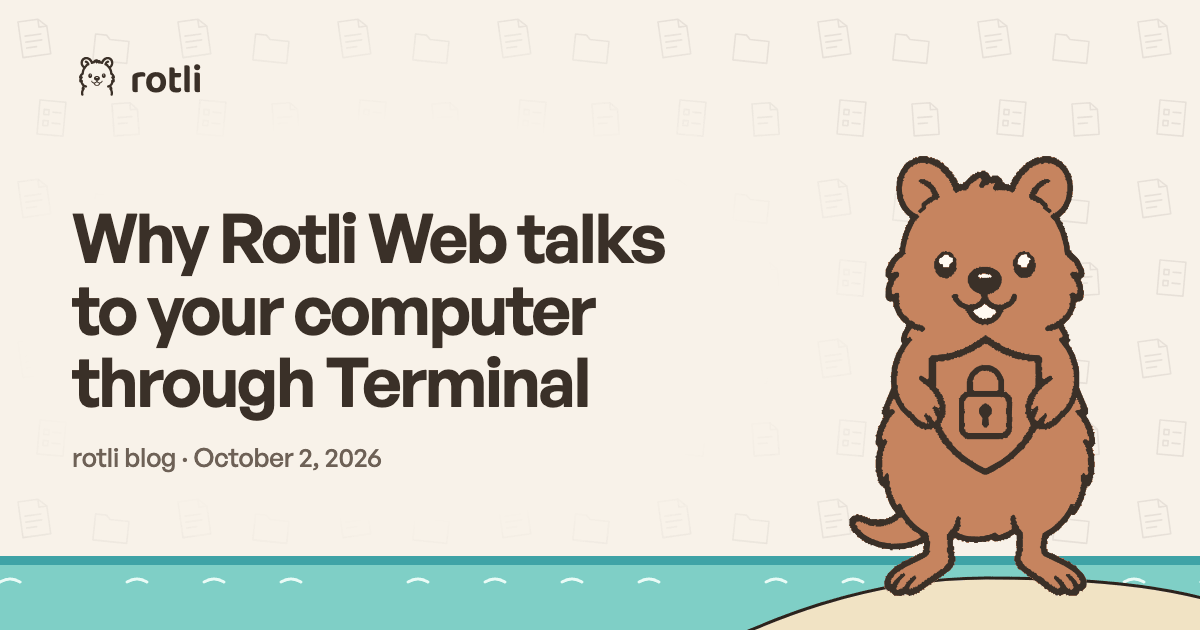
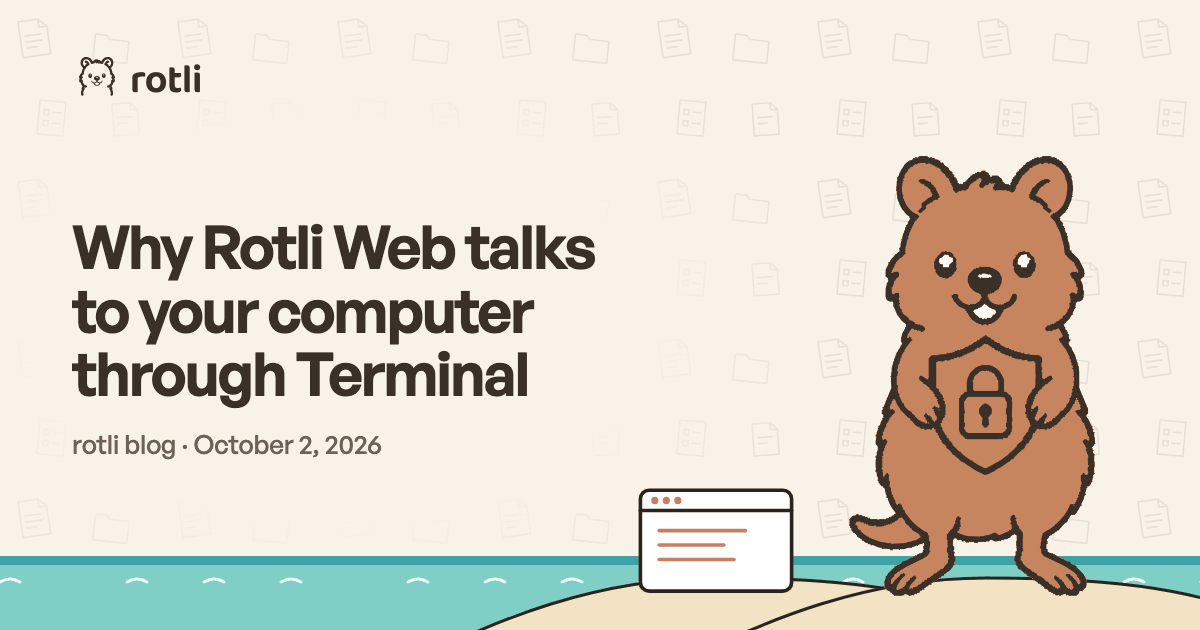
Give every blog post an illustrated thumbnail from the link-card system
The blog index was rows of text. Each post now has one picture definition
in og.ts (POST_ART: the quokka's pose and a scene fitting the topic), and
build:brand-images renders it twice: the title-free island scene as the
post's thumbnail (webp, 1200 and 600 wide, coming-soon posts included)
and the post's link card, which stands the same pose beside the scene's
first prop under the title read from frontmatter. No title is stored
with the art, so a retitled post only needs a re-render.

Changed region(s): [[0.0617, 0.3317, 0.555, 0.6635], [0.4008, 0.754, 0.74, 1.0], [0.0617, 0.6937, 0.3392, 0.754]]

diff --git a/site/src/og.ts b/site/src/og.ts
@@ -73,14 +73,59 @@ export const OG_CARDS = {
 } as const satisfies Record<string, OgCard>;
 export type OgCardName = keyof typeof OG_CARDS;
 
-/** A post's card pose, by slug; posts not listed show the writing quokka. */
-export const POST_POSES: Record<string, Pose> = {
-  'rotli-web-and-your-mac': 'stays_local',
-  'the-ai-you-already-pay-for': 'knowledge_system',
+/**
+ * A post's picture, by slug: the quokka's pose and the scene around it
+ * (scripts/brand-images/scenes.mjs). One definition, two renders by
+ * `bun run build:brand-images`: the title-free scene is the post's thumbnail
+ * (public/thumbs/blog/, on /blog/ and the post's head), and its link card
+ * stands the same pose beside the scene's first prop, under the title it
+ * reads from the post's frontmatter. Neither stores a title here, so a
+ * retitled post needs only a re-render. A post not listed gets the writing
+ * quokka on the plain beach.
+ */
+export interface PostArt {
+  pose: Pose;
+  scene: 'bench' | 'helper' | 'memory' | 'two-notes' | 'making' | 'beach';
+  /** What is drawn around the quokka, for the alt text. */
+  around: string;
+}
+
+export const POST_ART: Record<string, PostArt> = {
+  'the-ai-you-already-pay-for': {
+    pose: 'knowledge_system',
+    scene: 'bench',
+    around: 'between a bench of three idle AI helpers, two of them asleep, and a stack of coins',
+  },
+  'rotli-web-and-your-mac': {
+    pose: 'stays_local',
+    scene: 'helper',
+    around: 'between a browser window and a laptop open on Terminal, a dotted path joining them',
+  },
+  'rotli-as-ai-memory': {
+    pose: 'ai_chat',
+    scene: 'memory',
+    around: 'between a small AI chip with a speech bubble and three notes joined by links',
+  },
+  'two-kinds-of-notes': {
+    pose: 'notes',
+    scene: 'two-notes',
+    around: 'between a scribbled page and the same page filed, with a block of fields on top',
+  },
+  'the-creation-of-rotli': {
+    pose: 'excalidraw_board',
+    scene: 'making',
+    around: 'beside sketches laid out on the sand, the lighthouse behind',
+  },
 };
 
+const DEFAULT_ART: PostArt = { pose: 'notes', scene: 'beach', around: 'on the beach' };
+
+export function postArt(slug: string): PostArt {
+  return POST_ART[slug] ?? DEFAULT_ART;
+}
+
 export function postPose(slug: string): Pose {
-  return POST_POSES[slug] ?? 'notes';
+  return postArt(slug).pose;
 }
 
 function alt(title: string, pose: Pose): string {
@@ -91,6 +136,39 @@ function alt(title: string, pose: Pose): string {
 export function ogImage(name: OgCardName): { image: string; imageAlt: string } {
   const card: OgCard = OG_CARDS[name];
   return { image: `/og/${name}.png`, imageAlt: alt(card.title, card.pose) };
+}
+
+/** A post's thumbnail: its scene without words, 1200 × 630 with a 600-wide copy. */
+export interface Thumbnail {
+  src: string;
+  srcset: string;
+  width: number;
+  height: number;
+  alt: string;
+}
+
+export const THUMBNAIL = { width: 1200, height: 630 } as const;
+
+/** Where a post's thumbnail is written (the build script) and served (the pages). */
+export function thumbnailPath(slug: string, width: 600 | 1200 = 1200): string {
+  return width === 1200 ? `/thumbs/blog/${slug}.webp` : `/thumbs/blog/${slug}-600.webp`;
+}
+
+export function thumbnailAlt(slug: string): string {
+  const art = postArt(slug);
+  return `The rotli quokka ${POSES[art.pose]}, ${art.around}`;
+}
+
+/** A post's thumbnail, or undefined until `bun run build:brand-images` has rendered it. */
+export function postThumbnail(slug: string): Thumbnail | undefined {
+  const src = thumbnailPath(slug);
+  if (!hasPublicFile(src)) return undefined;
+  return {
+    src,
+    srcset: `${thumbnailPath(slug, 600)} 600w, ${src} 1200w`,
+    ...THUMBNAIL,
+    alt: thumbnailAlt(slug),
+  };
 }
 
 /** A post's own card (public/og/blog/<slug>.png), or the blog's until it is rendered. */
